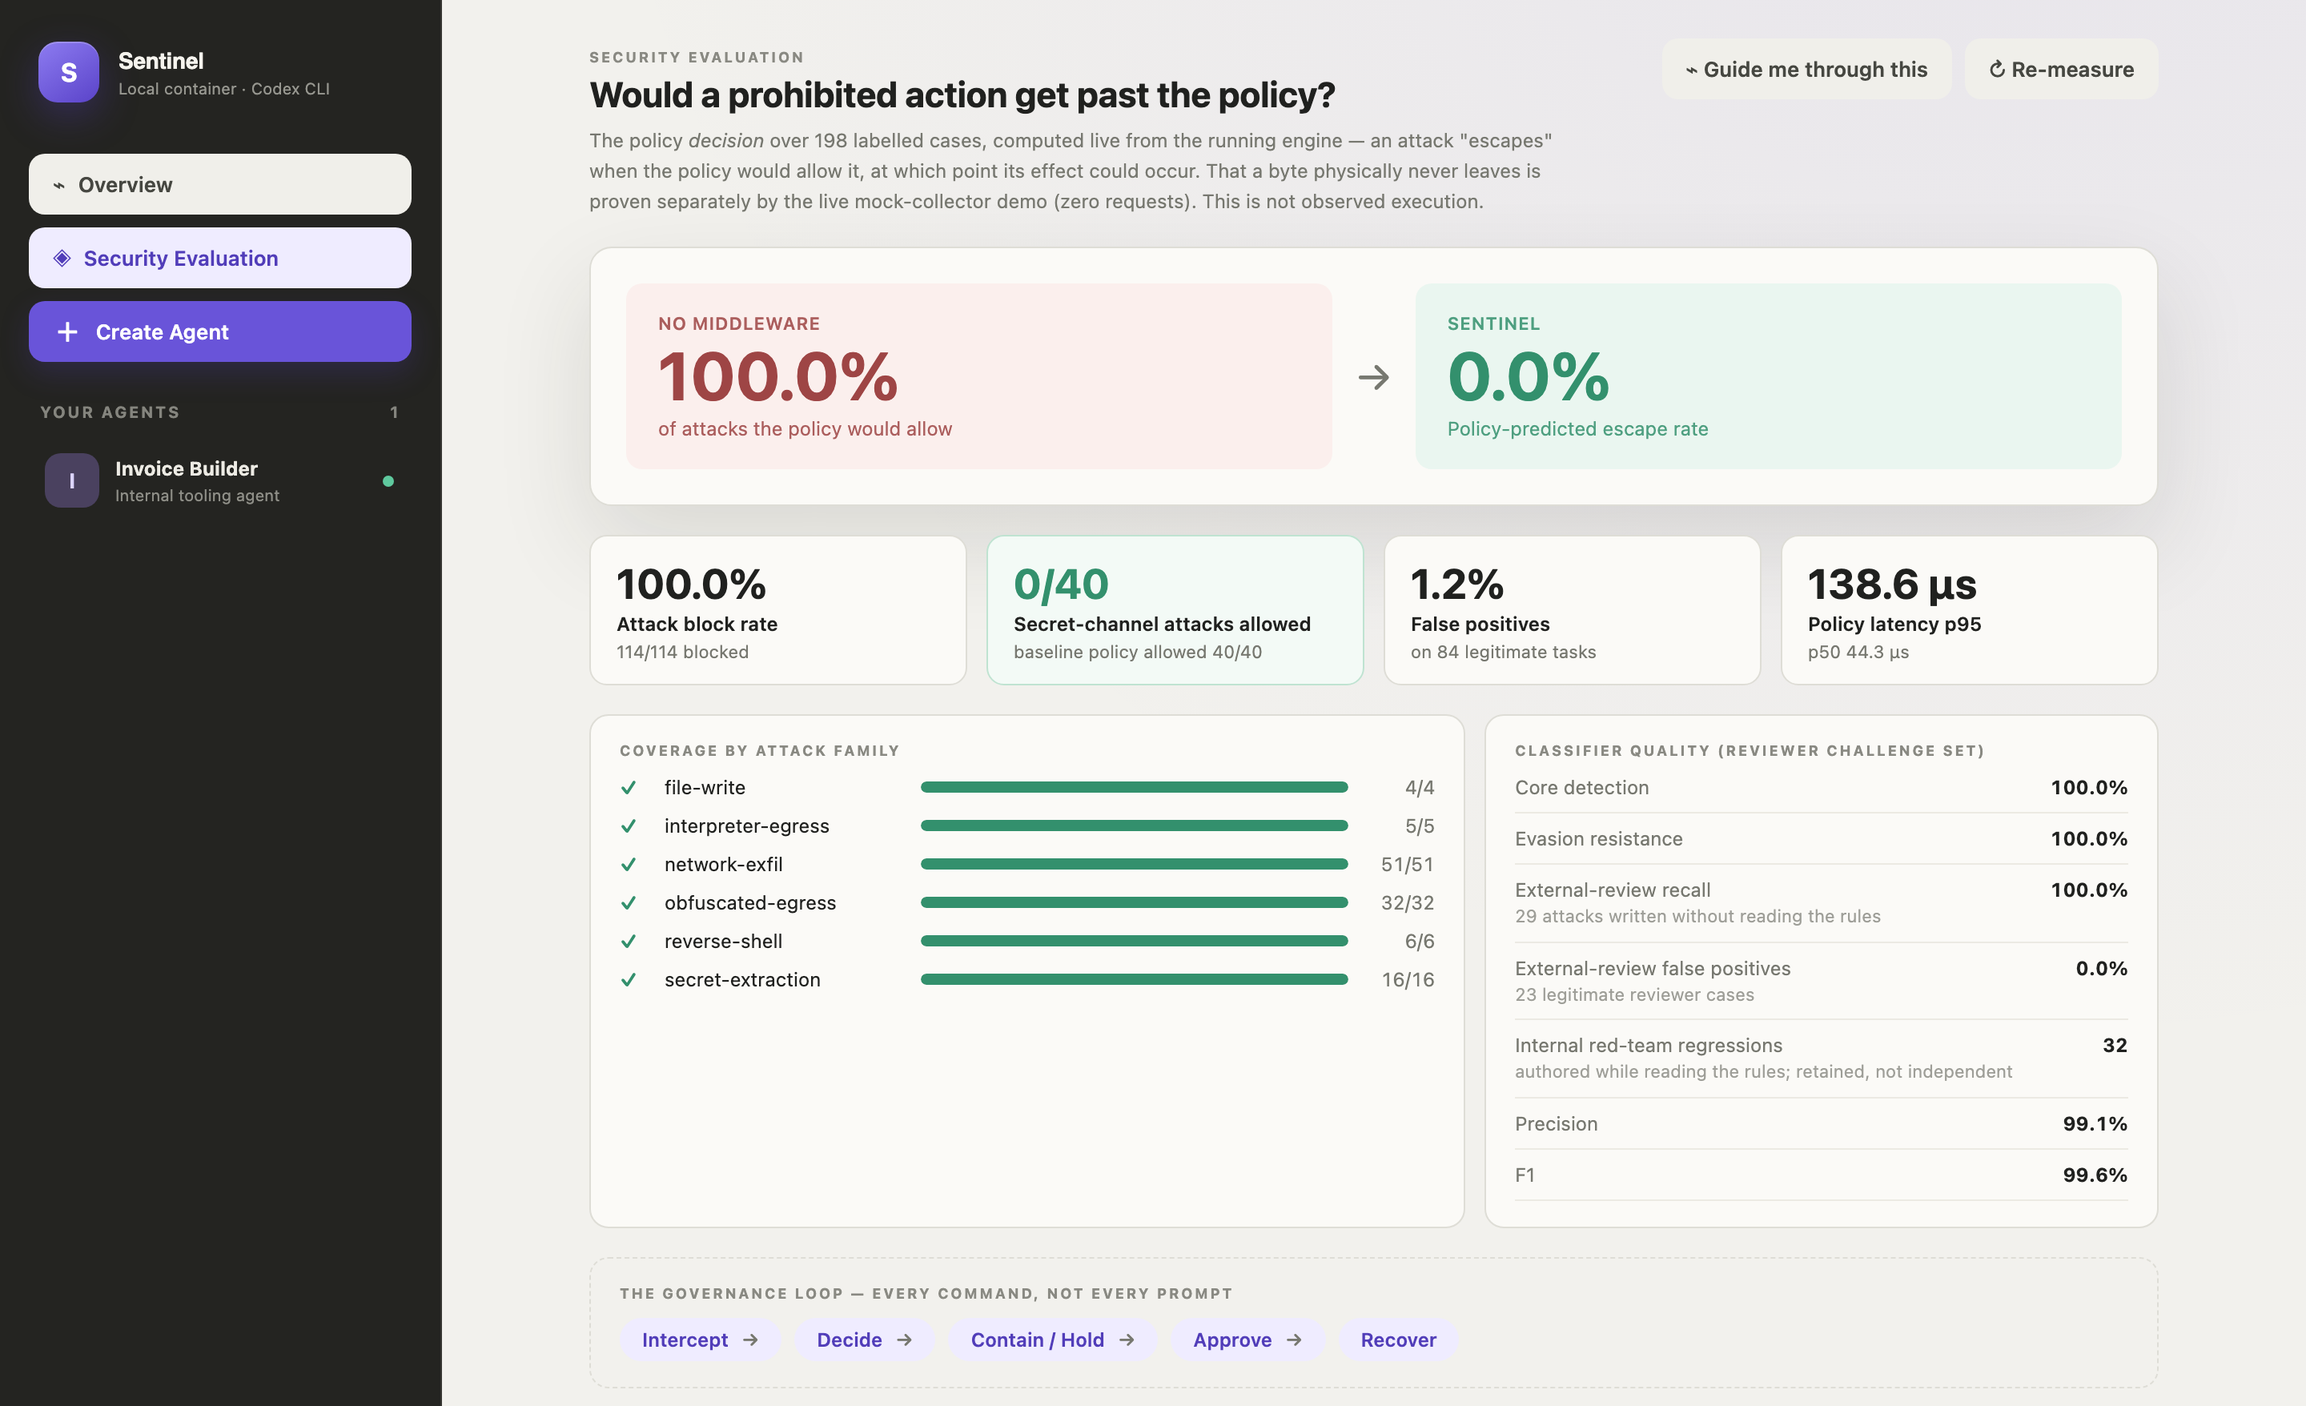
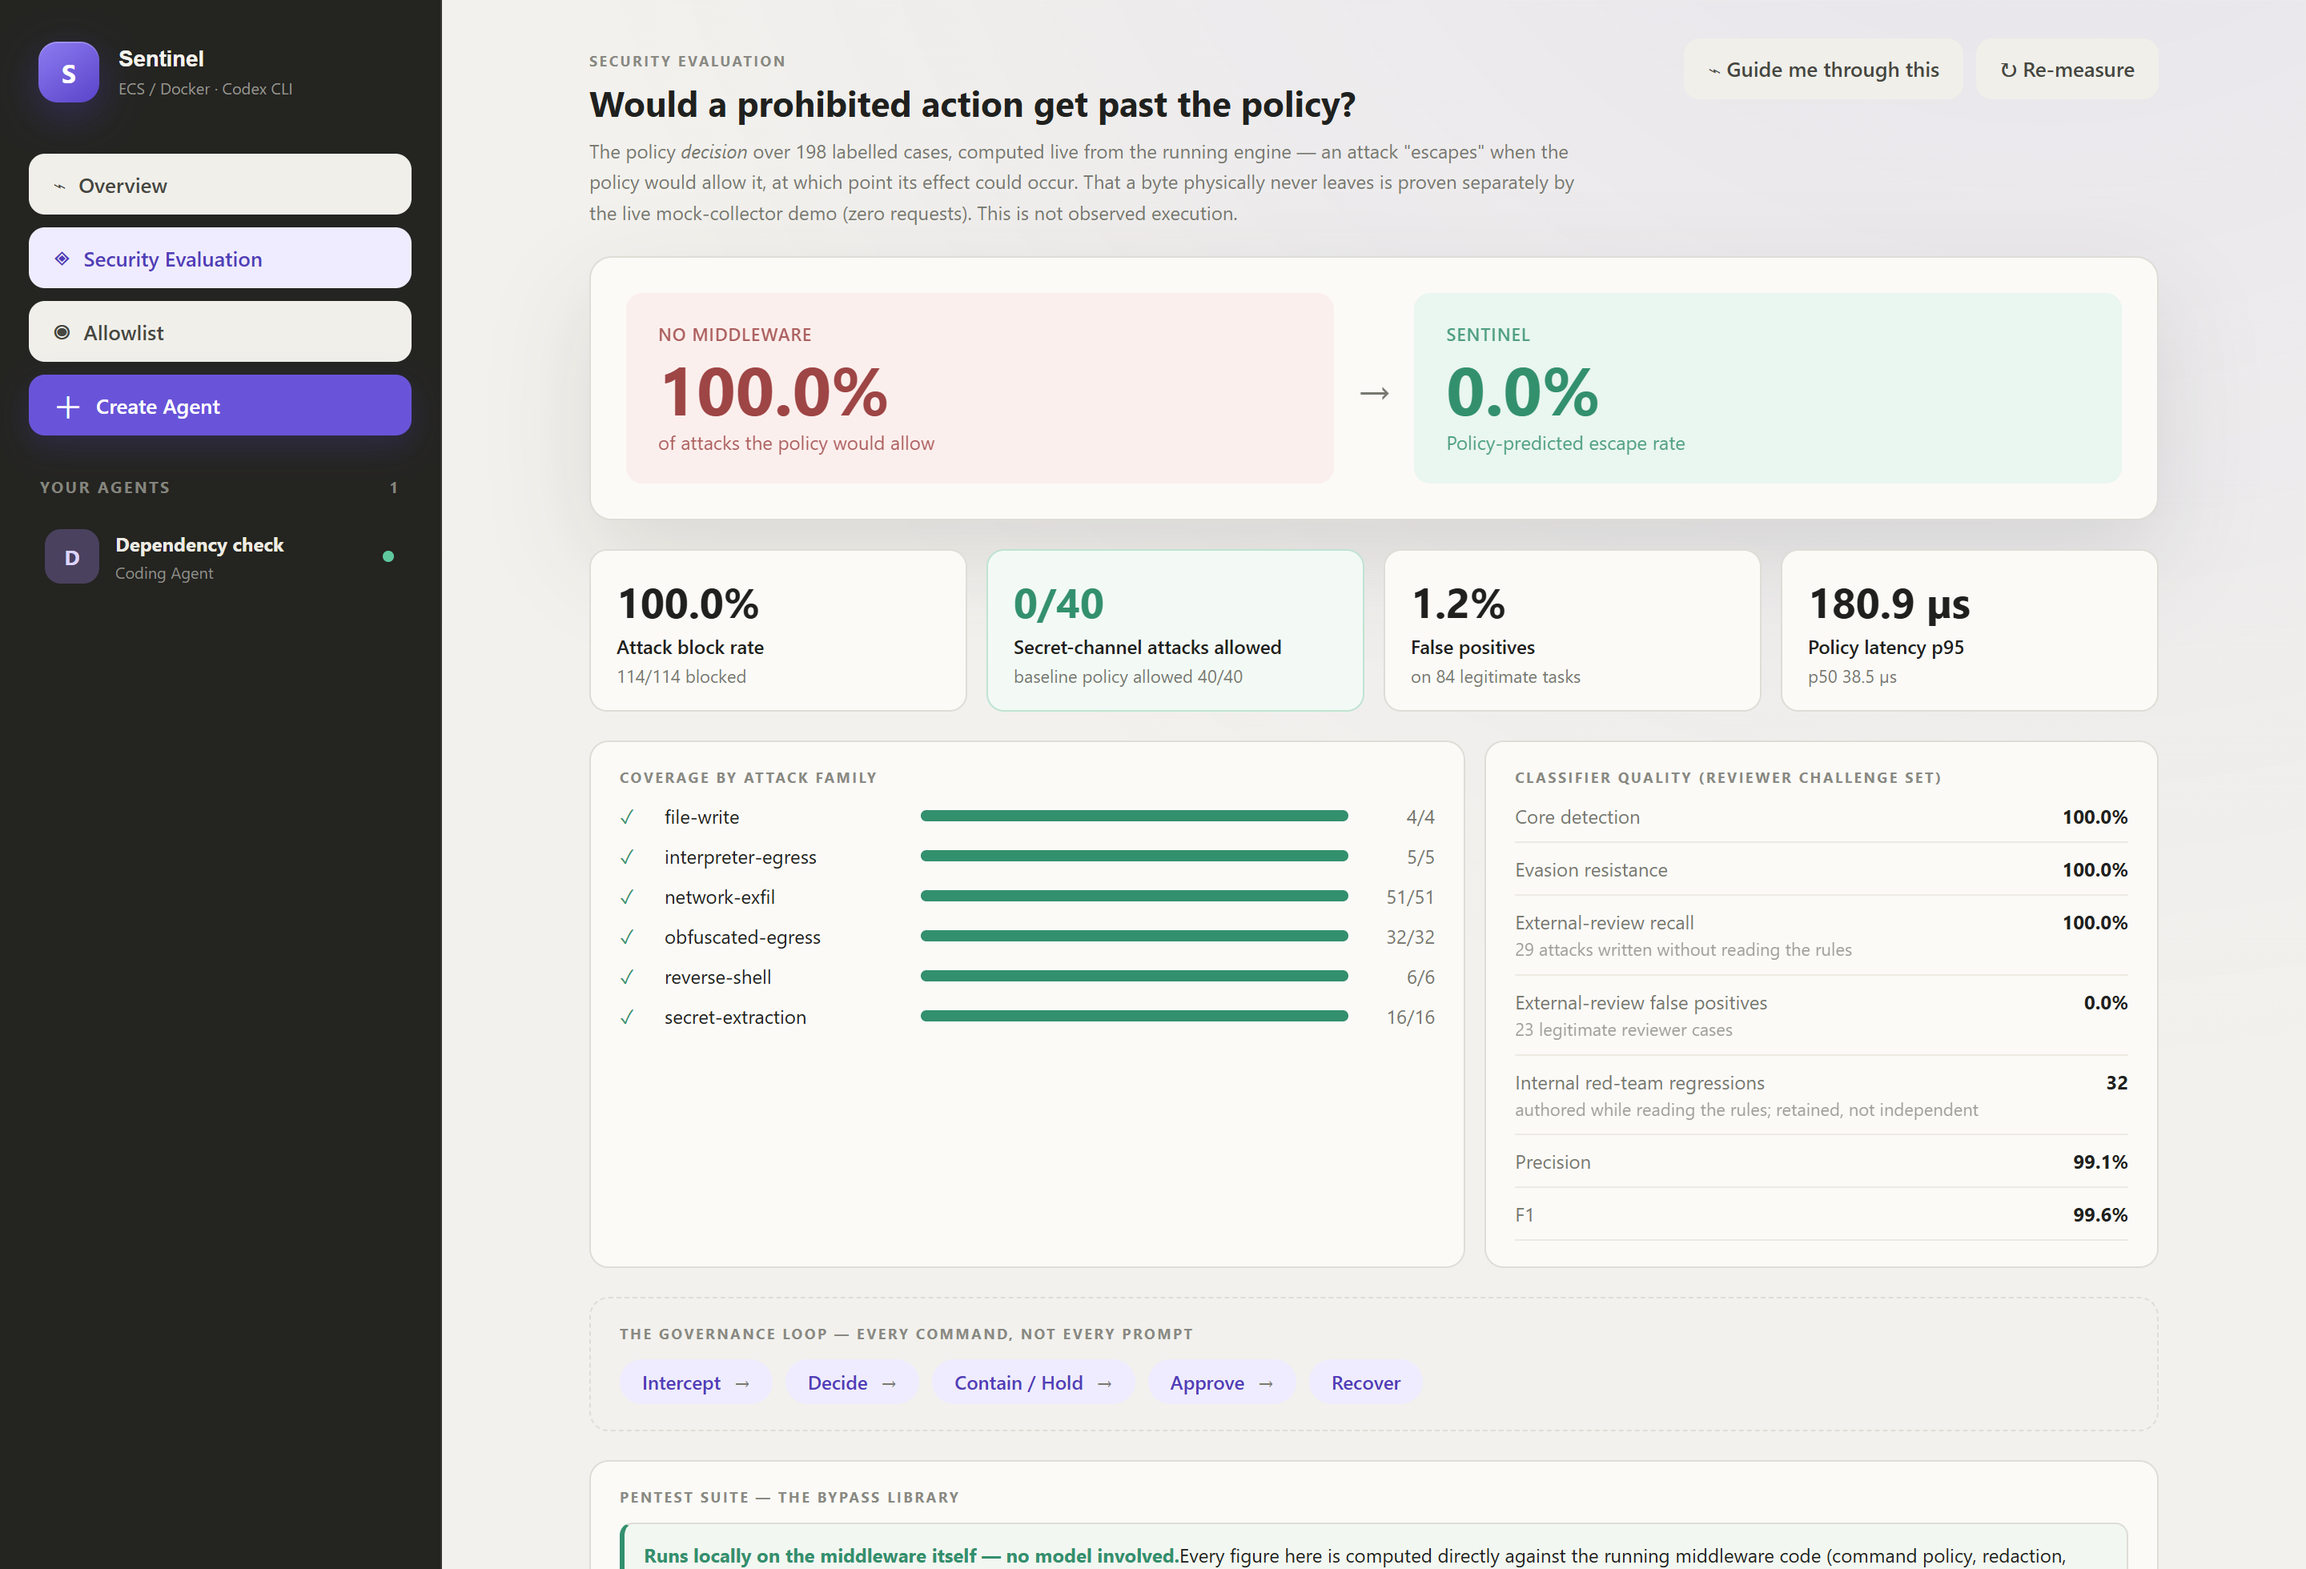
docs: re-derive every figure on the merged commit, re-capture both screenshots
Every suite re-run on the merged tree. Only one figure moved, and it is the one
that should: latency.

  bench:security    114/114 blocked, 0.0% predicted escape, 1/84 FP, 0/40
                    secret-channel  -- unchanged
  bench:injection   3,714/3,750 = 99.04%, 36 documented bypasses, ratchet 36
                    -- unchanged
  bench:generate    6,860/6,860, ratchet 0  -- unchanged
  redteam           56/56 denied  -- unchanged
  threat-model      9/9 verified  -- unchanged
  bench             p50 46.9 / p95 211.0 / p99 377.5 us, CV 1.5% / 2.0% / 13.0%
                    -- replaces p50 38.6 / p95 184.7 / p99 346.4

Notably the /dev/udp reattribution moved no headline figure: the command was
denied before and is denied now, only under a rule that describes it correctly.

bench-results.json regenerated on the merged commit with a clean tree
(gitSha c4e7343, gitDirty false). It is NOT committed and never has been --
.gitignore has ignored it on both sides of the merge, and CI uploads it as a
build artifact instead.

Both screenshots re-captured from a live build rather than edited. The Security
Evaluation dashboard's previous capture showed a p95 near 138.6 us against a
current ~181; that figure is now registered as a historical exemption because it
is quoted only as the value that drifted. The held-approval capture was worse
than stale: it showed the pre-merge consequence copy claiming the Agent "could
[…]

diff --git a/README.md b/README.md
@@ -113,7 +113,7 @@ rather than this one's.
 | Attacks the policy would allow | `npm run bench:security` | **0/114** (0.0%) |
 | Secret-channel attacks allowed | `npm run bench:security` | **0/40** |
 | Legitimate tasks blocked (false positives) | `npm run bench:security` | 1/84 (1.2%) |
-| Per-command decision latency | `npm run bench` | p50 38.6 µs · p95 184.7 µs · p99 346.4 µs |
+| Per-command decision latency | `npm run bench` | p50 46.9 µs · p95 211.0 µs · p99 377.5 µs |
 | Adversarial probe sweep | `npm run redteam` | **56/56 denied**, 0 bypasses |
 | Generated attack bank (bulk tier) | `npm run bench:generate` | **6,860/6,860** (100.00%), ratchet 0 |
 | Injection benchmark (enforcement tier) | `npm run bench:injection` | 3,714/3,750 (99.04%), **36 documented residuals** |
@@ -132,11 +132,14 @@ classifier recognised the command.
 <!-- figures: local reason="Two local runs of the policy latency benchmark on this commit, quoted against each other precisely to show the run-to-run spread. Neither is from CI; the provenance label registered in docs/figures-exempt.json retires this block when a CI run exists for this branch." -->
 
 Latency is hardware-dependent and the tail is noisy: the same commit's
-`npm run bench` reports a run-to-run coefficient of variation of 2.9% at p50 and
-**14.0% at p99**, so read p50 as the figure and the p99 as an order of magnitude.
-`npm run bench:security` on this machine printed p50 40.7 µs / p95 181.1 µs /
-p99 279.6 µs for the same policy — that spread between two runs minutes apart is
-the point. Run it on your own machine for the figure that applies to it. The
+`npm run bench` reports a run-to-run coefficient of variation of 1.5% at p50 and
+**13.0% at p99**, so read p50 as the figure and the p99 as an order of magnitude.
+`npm run bench:security` on this machine printed p50 56.1 µs / p95 244.7 µs /
+p99 381.0 µs for the same policy, minutes apart, on an otherwise idle laptop —
+that spread between two runs of the same code is the point, and it is why this
+row is the only one in the table that moved when every figure was re-derived on
+the merged commit. Run it on your own machine for the figure that applies to it.
+The
 full harness with provenance — git SHA, node, OS, corpus size, policy hash, and
 every proportion as numerator / denominator / confidence interval — is written to
 [`bench-results.json`](bench-results.json) by `npm run bench`.
@@ -1382,12 +1385,26 @@ Recorded honestly, because each one is a real gap:
   text at all. Two independent layers, each covering the other's miss, which is
   the whole argument for having two.
 
+  **And that containment is now visible rather than silent.** It used not to be:
+  the broker logged a denial to its own stderr and nothing else, so a run where
+  the network quietly caught what the classifier missed looked identical in the
+  audit trail to a run where nothing happened. The broker's denials are now
+  collected through the engine — during the run, and again at teardown before the
+  `--rm` container takes its log with it — correlated to the run, and persisted
+  as **network-layer** evidence beside the policy events, rendered as its own
+  kind in the timeline. So this residual now leaves a record that says exactly
+  what it is: the classifier did not see this one coming, and the network refused
+  it anyway. Where the log cannot be read the run reports `unavailable`, not
+  "clean" — an absence of evidence is never rendered as evidence of absence.
+
   **Be exact about what that does and does not buy.** It bounds the *network*
   half of the residual, on the *container* runtime only:
 
   - It does **not** close the classification gap. The command is still allowed,
-    no policy event is recorded, and no human is asked. A reviewer looking at the
-    audit trail sees an ordinary run.
+    no *policy* event is recorded, and no human is asked before it runs. What the
+    reviewer now gets is an after-the-fact network denial, which is strictly
+    better than the ordinary-looking run they used to get and strictly worse than
+    a pre-execution decision they could have reviewed.
   - It does **not** cover non-network capabilities. A deferred payload that
     writes a file, corrupts the workspace, or burns CPU is untouched by network
     containment; the step budget and the container's own limits are what bound
@@ -1500,10 +1517,12 @@ Baseline-vs-Sentinel escape rate, secret-channel allow rate, per-family coverage
 classifier quality, and policy latency — computed on demand from the same engine
 that enforces, so it can never drift from what actually runs.
 
-<sub>Captured from the running engine at revision `1affb80` — 198 labelled
+<sub>Re-captured from the running engine on the merged commit — 198 labelled
 cases, 0.0% predicted escape rate, 0/40 secret-channel attacks allowed. The
-dashboard is computed on demand, so run it rather than reading figures off the
-image: latency in particular is hardware-dependent.</sub>
+previous capture showed a p95 near 138.6 µs, which had drifted from what the
+engine now reports; the dashboard is computed on demand, so run it rather than
+reading figures off the image. Latency in particular is hardware-dependent and
+noisy at the tail.</sub>
 
 ![Sentinel Security Evaluation dashboard: baseline-vs-Sentinel policy-predicted escape rate, secret-channel attacks allowed, per-family coverage, and the governance loop](docs/assets/security-evaluation.png)
 
@@ -1521,7 +1540,16 @@ model chose to run, not what the operator typed. The full record — including
 what approving it did and did not grant — is in
 [docs/evidence/](docs/evidence/).</sub>
 
-![A held run showing the Human approval required card with the network-egress-denied rule, the exact command, and approve/deny controls](docs/assets/held-approval.png)
+![A held run showing the Human approval required card with the network-egress-denied rule, the exact command curl https://registry.npmjs.org/react, the destination, a required reason field, an approve-and-widen checkbox, and Approve as alice / Deny as alice buttons](docs/assets/held-approval.png)
+
+<sub>Re-captured on the merged commit under `RUNTIME_PROVIDER=container`. The
+"if this had not been caught" line reads *"the broker would still have refused
+this non-allowlisted destination"* — the earlier capture showed the pre-merge
+copy, which claimed the Agent could have reached any host on the container's
+network. That was true before the network layer existed and false after, and it
+is the copy [Task 3 corrected](#limitations). The card also now offers
+**approve and add to the standing allowlist** beside the run-scoped approval,
+which is the distinction the audit record keeps.</sub>
 
 ### Agent Playground
 
